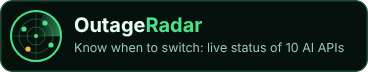
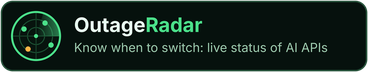
Add files via upload

diff --git a/web-tests/board.test.js b/web-tests/board.test.js
@@ -504,6 +504,45 @@ function pngSize(name) {
   assert.equal(b.subarray(1, 4).toString("latin1"), "PNG", name + " is a PNG");
   return [b.readUInt32BE(16), b.readUInt32BE(20)];
 }
+// v1.18.4: the badge other sites embed lives at one permanent address,
+// https://liveoutageradar.com/badge.png, made by tools/badge_image.py. It names
+// no service count (the old one said "10 AI APIs" after we reached 15), so it
+// can't go stale on other people's sites when we add services.
+const BRAND = (f) => readFileSync(new URL("../brand/" + f, import.meta.url));
+const COUNTED = /\b\d+\s+(?:more\b|AI\b)|\bten\b/i;
+test("the hosted badge is at site/badge.png, 736x144, same file as the brand master", () => {
+  const png = readFileSync(new URL("../site/badge.png", import.meta.url));
+  assert.equal(png.subarray(1, 4).toString("latin1"), "PNG");
+  assert.deepEqual([png.readUInt32BE(16), png.readUInt32BE(20)], [736, 144]);
+  assert.ok(png.equals(BRAND("outageradar-badge@2x.png")), "site/badge.png must equal brand/outageradar-badge@2x.png");
+  const small = BRAND("outageradar-badge.png");
+  assert.deepEqual([small.readUInt32BE(16), small.readUInt32BE(20)], [368, 72]);
+});
+test("the badge images match their generator (python3 tools/badge_image.py)", () => {
+  const r = spawnSync("python3", [fileURLToPath(new URL("../tools/badge_image.py", import.meta.url)), "--verify"], { encoding: "utf8" });
+  assert.equal(r.status, 0, "badge out of date: run python3 tools/badge_image.py\n" + r.stdout + r.stderr);
+});
+test("the badge names no service count, in the SVG master and the README code", () => {
+  const svg = BRAND("outageradar-badge.svg").toString("utf8");
+  assert.match(svg, /Know when to switch: live status of AI APIs/);
+  for (const m of svg.matchAll(/(?:<title>|aria-label=")([^<"]+)/g)) assert.match(m[1], /live status of AI APIs/i, m[1]);
+  assert.doesNotMatch(svg, COUNTED);
+  const readme = BRAND("README.md").toString("utf8");
+  assert.doesNotMatch(readme, COUNTED);
+});
+test("the README's paste-ready badge loads from our permanent address", () => {
+  const readme = BRAND("README.md").toString("utf8");
+  assert.match(readme, /<img src="https:\/\/liveoutageradar\.com\/badge\.png" width="368" height="72"/);
+  assert.match(readme, /<a href="https:\/\/liveoutageradar\.com\/\?utm_source=SITENAME" target="_blank" rel="noopener">/);
+  assert.doesNotMatch(readme, /src="\/images\//);
+});
+test("the badge is an image file, not a page: it stays out of the sitemap", () => {
+  assert.doesNotMatch(SITE("sitemap.xml"), /badge/);
+});
+test("partner box links never break across lines", () => {
+  assert.match(PAGE, /\.partner \.more a\{white-space:nowrap\}/);
+});
+
 test("brand has the social header (1500x500) and avatar (400x400)", () => {
   assert.deepEqual(pngSize("outageradar-x-header.png"), [1500, 500]);
   assert.deepEqual(pngSize("outageradar-x-profile.png"), [400, 400]);

diff --git a/site/alerts/confirm/index.html b/site/alerts/confirm/index.html
@@ -109,6 +109,7 @@ a:focus-visible,button:focus-visible{outline:3px solid var(--chk);outline-offset
 .partner a{color:var(--op);font-weight:650}
 .partner .plabel{margin:0 0 .4rem;font-size:.75rem;letter-spacing:.02em;color:var(--muted)}
 .partner .more{margin-top:.55rem;font-size:.88rem}
+.partner .more a{white-space:nowrap}
 .about{margin-top:2rem;padding-top:1.25rem;border-top:1px solid var(--line);color:var(--muted);font-size:.92rem}
 .about h2{margin:0 0 .5rem;font-size:1rem;color:var(--text)}
 .about p{margin:0 0 .6rem;max-width:72ch}

diff --git a/site/alerts/index.html b/site/alerts/index.html
@@ -116,6 +116,7 @@ a:focus-visible,button:focus-visible{outline:3px solid var(--chk);outline-offset
 .partner a{color:var(--op);font-weight:650}
 .partner .plabel{margin:0 0 .4rem;font-size:.75rem;letter-spacing:.02em;color:var(--muted)}
 .partner .more{margin-top:.55rem;font-size:.88rem}
+.partner .more a{white-space:nowrap}
 .about{margin-top:2rem;padding-top:1.25rem;border-top:1px solid var(--line);color:var(--muted);font-size:.92rem}
 .about h2{margin:0 0 .5rem;font-size:1rem;color:var(--text)}
 .about p{margin:0 0 .6rem;max-width:72ch}

diff --git a/site/alerts/unsubscribe/index.html b/site/alerts/unsubscribe/index.html
@@ -109,6 +109,7 @@ a:focus-visible,button:focus-visible{outline:3px solid var(--chk);outline-offset
 .partner a{color:var(--op);font-weight:650}
 .partner .plabel{margin:0 0 .4rem;font-size:.75rem;letter-spacing:.02em;color:var(--muted)}
 .partner .more{margin-top:.55rem;font-size:.88rem}
+.partner .more a{white-space:nowrap}
 .about{margin-top:2rem;padding-top:1.25rem;border-top:1px solid var(--line);color:var(--muted);font-size:.92rem}
 .about h2{margin:0 0 .5rem;font-size:1rem;color:var(--text)}
 .about p{margin:0 0 .6rem;max-width:72ch}

diff --git a/site/errors/claude-429-rate-limit/index.html b/site/errors/claude-429-rate-limit/index.html
@@ -120,6 +120,7 @@ a:focus-visible,button:focus-visible{outline:3px solid var(--chk);outline-offset
 .partner a{color:var(--op);font-weight:650}
 .partner .plabel{margin:0 0 .4rem;font-size:.75rem;letter-spacing:.02em;color:var(--muted)}
 .partner .more{margin-top:.55rem;font-size:.88rem}
+.partner .more a{white-space:nowrap}
 .about{margin-top:2rem;padding-top:1.25rem;border-top:1px solid var(--line);color:var(--muted);font-size:.92rem}
 .about h2{margin:0 0 .5rem;font-size:1rem;color:var(--text)}
 .about p{margin:0 0 .6rem;max-width:72ch}

diff --git a/site/errors/claude-529-overloaded/index.html b/site/errors/claude-529-overloaded/index.html
@@ -120,6 +120,7 @@ a:focus-visible,button:focus-visible{outline:3px solid var(--chk);outline-offset
 .partner a{color:var(--op);font-weight:650}
 .partner .plabel{margin:0 0 .4rem;font-size:.75rem;letter-spacing:.02em;color:var(--muted)}
 .partner .more{margin-top:.55rem;font-size:.88rem}
+.partner .more a{white-space:nowrap}
 .about{margin-top:2rem;padding-top:1.25rem;border-top:1px solid var(--line);color:var(--muted);font-size:.92rem}
 .about h2{margin:0 0 .5rem;font-size:1rem;color:var(--text)}
 .about p{margin:0 0 .6rem;max-width:72ch}

diff --git a/site/errors/deepseek-503-server-overloaded/index.html b/site/errors/deepseek-503-server-overloaded/index.html
@@ -120,6 +120,7 @@ a:focus-visible,button:focus-visible{outline:3px solid var(--chk);outline-offset
 .partner a{color:var(--op);font-weight:650}
 .partner .plabel{margin:0 0 .4rem;font-size:.75rem;letter-spacing:.02em;color:var(--muted)}
 .partner .more{margin-top:.55rem;font-size:.88rem}
+.partner .more a{white-space:nowrap}
 .about{margin-top:2rem;padding-top:1.25rem;border-top:1px solid var(--line);color:var(--muted);font-size:.92rem}
 .about h2{margin:0 0 .5rem;font-size:1rem;color:var(--text)}
 .about p{margin:0 0 .6rem;max-width:72ch}

diff --git a/site/errors/gemini-429-resource-exhausted/index.html b/site/errors/gemini-429-resource-exhausted/index.html
@@ -120,6 +120,7 @@ a:focus-visible,button:focus-visible{outline:3px solid var(--chk);outline-offset
 .partner a{color:var(--op);font-weight:650}
 .partner .plabel{margin:0 0 .4rem;font-size:.75rem;letter-spacing:.02em;color:var(--muted)}
 .partner .more{margin-top:.55rem;font-size:.88rem}
+.partner .more a{white-space:nowrap}
 .about{margin-top:2rem;padding-top:1.25rem;border-top:1px solid var(--line);color:var(--muted);font-size:.92rem}
 .about h2{margin:0 0 .5rem;font-size:1rem;color:var(--text)}
 .about p{margin:0 0 .6rem;max-width:72ch}

diff --git a/site/errors/gemini-503-unavailable/index.html b/site/errors/gemini-503-unavailable/index.html
@@ -120,6 +120,7 @@ a:focus-visible,button:focus-visible{outline:3px solid var(--chk);outline-offset
 .partner a{color:var(--op);font-weight:650}
 .partner .plabel{margin:0 0 .4rem;font-size:.75rem;letter-spacing:.02em;color:var(--muted)}
 .partner .more{margin-top:.55rem;font-size:.88rem}
+.partner .more a{white-space:nowrap}
 .about{margin-top:2rem;padding-top:1.25rem;border-top:1px solid var(--line);color:var(--muted);font-size:.92rem}
 .about h2{margin:0 0 .5rem;font-size:1rem;color:var(--text)}
 .about p{margin:0 0 .6rem;max-width:72ch}

diff --git a/site/errors/index.html b/site/errors/index.html
@@ -120,6 +120,7 @@ a:focus-visible,button:focus-visible{outline:3px solid var(--chk);outline-offset
 .partner a{color:var(--op);font-weight:650}
 .partner .plabel{margin:0 0 .4rem;font-size:.75rem;letter-spacing:.02em;color:var(--muted)}
 .partner .more{margin-top:.55rem;font-size:.88rem}
+.partner .more a{white-space:nowrap}
 .about{margin-top:2rem;padding-top:1.25rem;border-top:1px solid var(--line);color:var(--muted);font-size:.92rem}
 .about h2{margin:0 0 .5rem;font-size:1rem;color:var(--text)}
 .about p{margin:0 0 .6rem;max-width:72ch}

diff --git a/site/errors/openai-429-rate-limit/index.html b/site/errors/openai-429-rate-limit/index.html
@@ -120,6 +120,7 @@ a:focus-visible,button:focus-visible{outline:3px solid var(--chk);outline-offset
 .partner a{color:var(--op);font-weight:650}
 .partner .plabel{margin:0 0 .4rem;font-size:.75rem;letter-spacing:.02em;color:var(--muted)}
 .partner .more{margin-top:.55rem;font-size:.88rem}
+.partner .more a{white-space:nowrap}
 .about{margin-top:2rem;padding-top:1.25rem;border-top:1px solid var(--line);color:var(--muted);font-size:.92rem}
 .about h2{margin:0 0 .5rem;font-size:1rem;color:var(--text)}
 .about p{margin:0 0 .6rem;max-width:72ch}

diff --git a/site/errors/openai-503-overloaded/index.html b/site/errors/openai-503-overloaded/index.html
@@ -120,6 +120,7 @@ a:focus-visible,button:focus-visible{outline:3px solid var(--chk);outline-offset
 .partner a{color:var(--op);font-weight:650}
 .partner .plabel{margin:0 0 .4rem;font-size:.75rem;letter-spacing:.02em;color:var(--muted)}
 .partner .more{margin-top:.55rem;font-size:.88rem}
+.partner .more a{white-space:nowrap}
 .about{margin-top:2rem;padding-top:1.25rem;border-top:1px solid var(--line);color:var(--muted);font-size:.92rem}
 .about h2{margin:0 0 .5rem;font-size:1rem;color:var(--text)}
 .about p{margin:0 0 .6rem;max-width:72ch}
